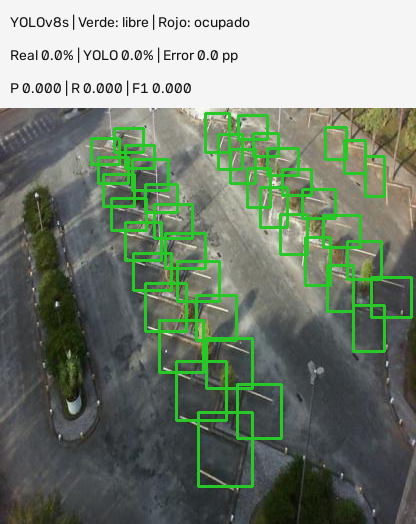
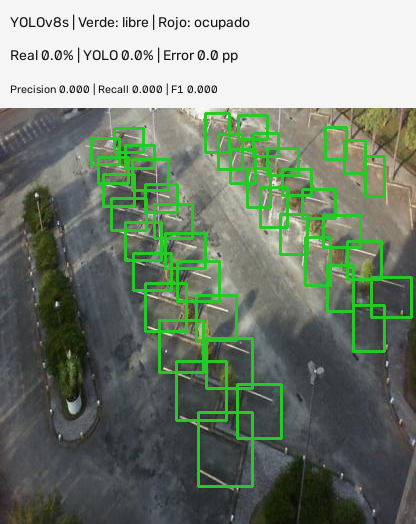
Aclara nombres de metricas en resultados YOLO

Changed region(s): [[0.0312, 0.1527, 0.5312, 0.1832]]

diff --git a/PC5_OCUPACION_ESTACIONAMIENTOS/02_CODIGO/02_PYTHON_YOLO/generar_comparativas.py b/PC5_OCUPACION_ESTACIONAMIENTOS/02_CODIGO/02_PYTHON_YOLO/generar_comparativas.py
@@ -126,8 +126,8 @@ def dibujar_yolo(imagen: np.ndarray, cajas: np.ndarray, clases: np.ndarray,
                 (10, 27), cv2.FONT_HERSHEY_SIMPLEX, 0.48, (20, 20, 20), 1, cv2.LINE_AA)
     cv2.putText(lienzo, f"Real {real:.1f}% | YOLO {estimado:.1f}% | Error {abs(real-estimado):.1f} pp",
                 (10, 60), cv2.FONT_HERSHEY_SIMPLEX, 0.48, (20, 20, 20), 1, cv2.LINE_AA)
-    cv2.putText(lienzo, f"P {precision:.3f} | R {recall:.3f} | F1 {f1:.3f}",
-                (10, 93), cv2.FONT_HERSHEY_SIMPLEX, 0.48, (20, 20, 20), 1, cv2.LINE_AA)
+    cv2.putText(lienzo, f"Precision {precision:.3f} | Recall {recall:.3f} | F1 {f1:.3f}",
+                (10, 93), cv2.FONT_HERSHEY_SIMPLEX, 0.38, (20, 20, 20), 1, cv2.LINE_AA)
     return lienzo
 
 
